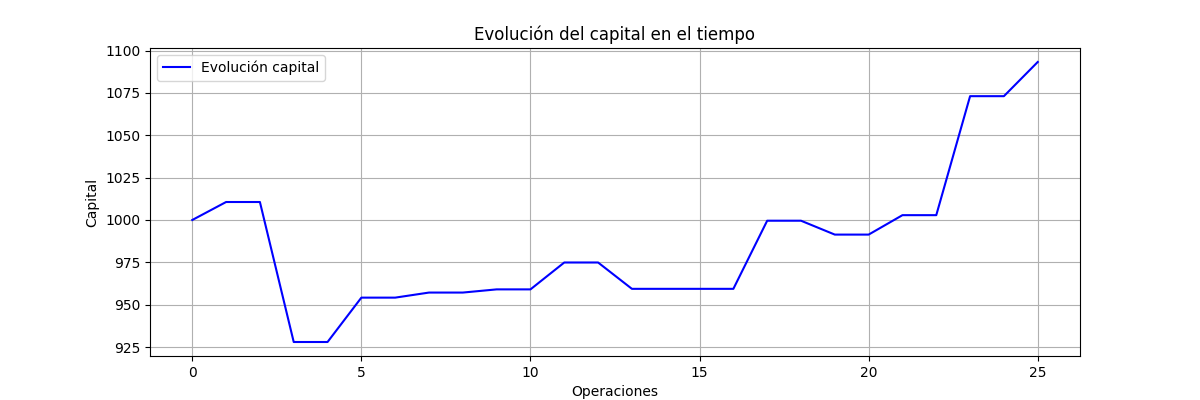
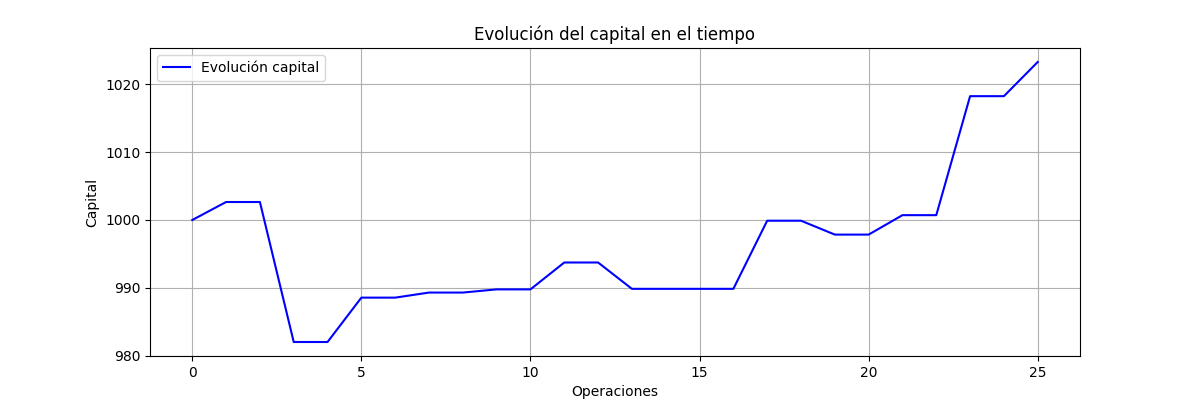
Cambio Uso % de Riesgo

diff --git a/trading-bot/src/backtesting/backtester.py b/trading-bot/src/backtesting/backtester.py
@@ -24,9 +24,9 @@ class Backtester:
             # Entrar en largo
             if signal == 1 and position == 0:
                 # tamaño de la posición en función del riesgo
-                # risk_amount = capital * self.risk_per_trade
-                # position = risk_amount // price  # número de acciones enteras
-                position = capital // price  # comprar con todo el capital disponible
+                risk_amount = capital * self.risk_per_trade
+                position = risk_amount // price  # número de acciones enteras
+                # position = capital // price  # comprar con todo el capital disponible
                 entry_price = price
                 self.trades.append(
                     {"date": date, "type": "BUY", "price": price, "shares": position}
